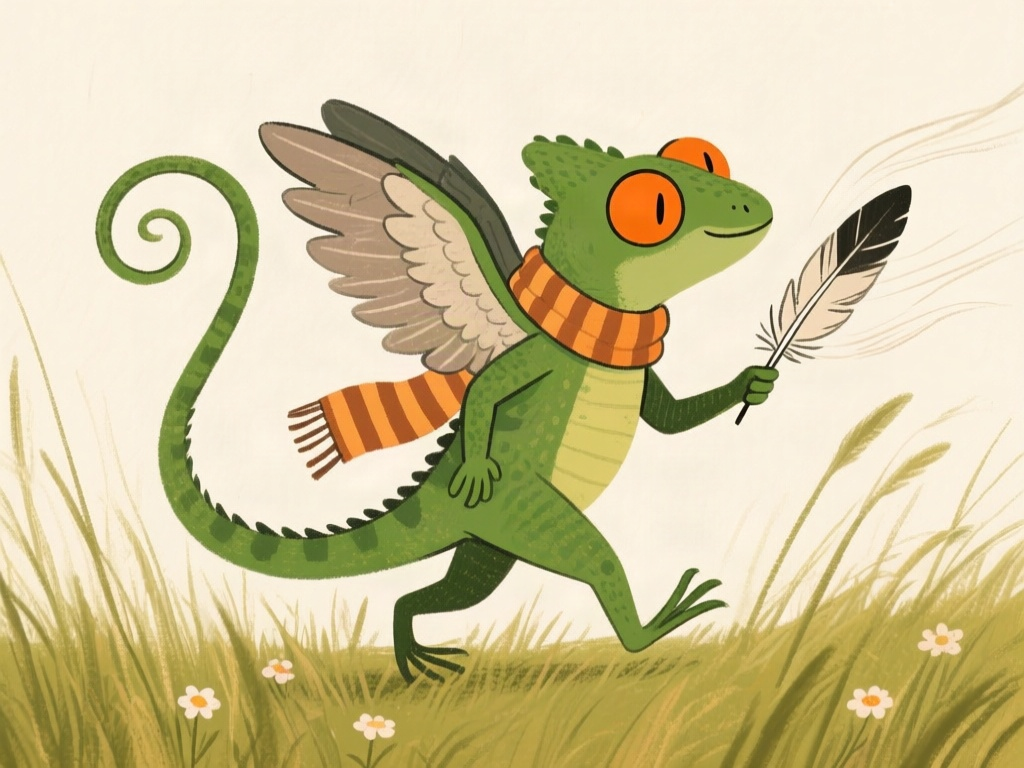
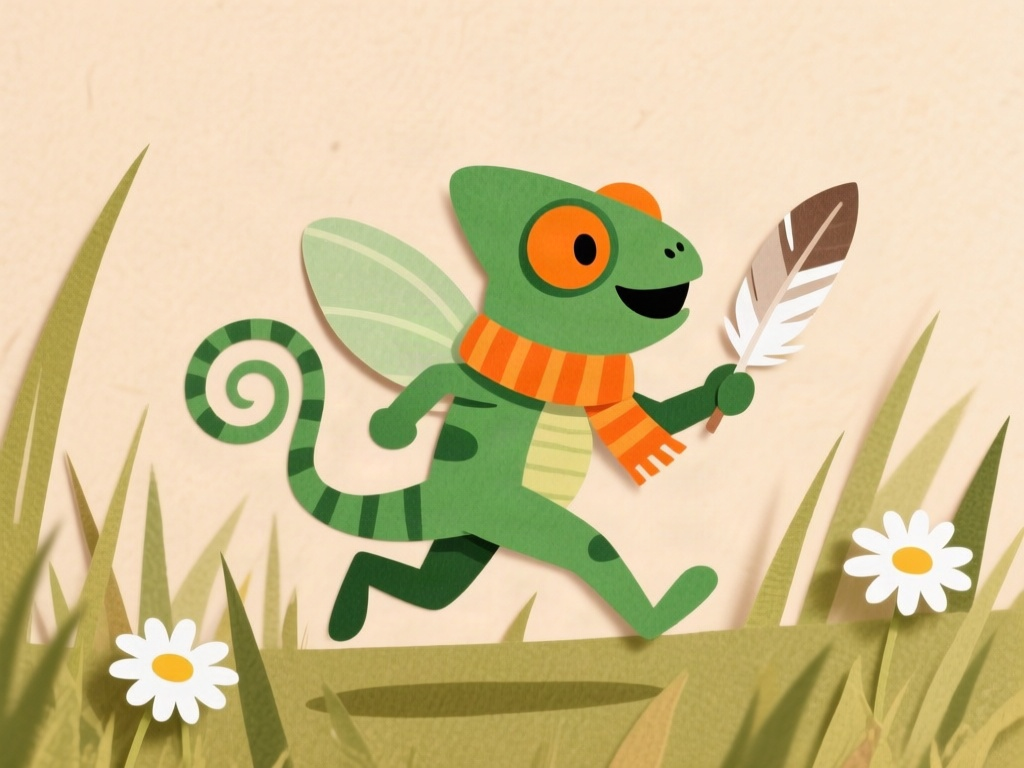
feat(styles): add a hidden pixel trial preset; redraw the cut_paper card
C3-13 / #98. The pixel fragment from the desk research is behind two
switches, both off by default: ENABLE_PIXEL_STYLE (API) and
NEXT_PUBLIC_ENABLE_PIXEL_STYLE (picker). Migration 0020 lets the jobs
table hold it. Pixel stays out of SELECTABLE_STYLE_PRESET_IDS, so corpus
strata and the product Objective 4 describes are unchanged.

pixel.png and a new cut_paper.png were each drawn once through
text_to_image (qwen-image, seed 21). The pixel sample shows drawn grid
lines in the sky, recorded in the research note as the first wording
fix before the trial.

diff --git a/frontend/app/s/[profileId]/write/page.tsx b/frontend/app/s/[profileId]/write/page.tsx
@@ -17,8 +17,19 @@ const STYLE_PRESETS = [
   { id: "cel", label: "Cartoon" },
   { id: "gouache", label: "Painted" },
   { id: "cut_paper", label: "Paper Cutout" },
+  { id: "pixel", label: "Pixel" },
 ] as const;
 type StylePresetId = (typeof STYLE_PRESETS)[number]["id"];
+
+// C3-13 / #98: `pixel` is a trial preset, hidden unless NEXT_PUBLIC_ENABLE_PIXEL_STYLE is "true".
+// The API has its own switch (ENABLE_PIXEL_STYLE, backend/app/config.py) and rejects `pixel`
+// without it, so set both. Next inlines NEXT_PUBLIC_ values at build time: changing it needs a
+// rebuild. Read inside a function so tests can stub it.
+function visibleStylePresets() {
+  return process.env.NEXT_PUBLIC_ENABLE_PIXEL_STYLE === "true"
+    ? STYLE_PRESETS
+    : STYLE_PRESETS.filter(({ id }) => id !== "pixel");
+}
 
 function countWords(text: string): number {
   const trimmed = text.trim();
@@ -59,7 +70,7 @@ export default function WriteStoryPage() {
             "style_preset_id" in parsed && typeof parsed.style_preset_id === "string"
               ? parsed.style_preset_id
               : null;
-          const stylePresetId = STYLE_PRESETS.some(({ id }) => id === storedStyle)
+          const stylePresetId = visibleStylePresets().some(({ id }) => id === storedStyle)
             ? (storedStyle as StylePresetId)
             : undefined;
           prefill = {
@@ -259,7 +270,7 @@ export default function WriteStoryPage() {
       >
         <legend className="text-xs font-display font-extrabold tracking-wider uppercase text-foreground/60 mb-2">Pick a look</legend>
         <div className="flex gap-3">
-          {STYLE_PRESETS.map(({ id, label }) => (
+          {visibleStylePresets().map(({ id, label }) => (
             <label key={id} className="flex-1 cursor-pointer">
               <input
                 type="radio"

diff --git a/frontend/app/s/[profileId]/write/page.test.tsx b/frontend/app/s/[profileId]/write/page.test.tsx
@@ -76,6 +76,17 @@ describe("WriteStoryPage", () => {
     expect(body.style_preset_id).toBe("cel");
   });
 
+  it("shows the pixel trial preset only when NEXT_PUBLIC_ENABLE_PIXEL_STYLE is true (C3-13)", () => {
+    const { unmount } = render(<WriteStoryPage />);
+    expect(screen.queryByLabelText("Pixel")).toBeNull();
+    unmount();
+
+    vi.stubEnv("NEXT_PUBLIC_ENABLE_PIXEL_STYLE", "true");
+    render(<WriteStoryPage />);
+    expect(screen.getByLabelText("Pixel")).toBeDefined();
+    vi.unstubAllEnvs();
+  });
+
   it("sends the session bearer token — POST /storybooks is auth-guarded", async () => {
     render(<WriteStoryPage />);
     fireEvent.change(screen.getByLabelText("Story title"), {
@@ -113,7 +124,7 @@ describe("WriteStoryPage", () => {
 describe("Style preset sample art", () => {
   it("every ADR-042 selectable preset has a sample image in public/style-presets/", () => {
     const dir = path.resolve(__dirname, "..", "..", "..", "..", "public", "style-presets");
-    for (const id of ["cel", "gouache", "cut_paper"]) {
+    for (const id of ["cel", "gouache", "cut_paper", "pixel"]) {
       expect(fs.existsSync(path.join(dir, `${id}.png`)), `missing file: ${id}.png`).toBe(true);
     }
   });

diff --git a/backend/app/config.py b/backend/app/config.py
@@ -76,6 +76,13 @@ class Settings(BaseSettings):
     # failure. Set true to restore the pre-ADR-045 behaviour; that is the whole revert.
     pii_pseudonymize_persons: bool = False
 
+    # C3-13 / #98: lets the API accept the `pixel` trial preset. Off by default, so the product
+    # Objective 4 evaluates (gouache, cel, cut_paper) is unchanged unless someone opts in. The
+    # frontend picker has its own switch, NEXT_PUBLIC_ENABLE_PIXEL_STYLE; set both to try it.
+    # Pixel is not in SELECTABLE_STYLE_PRESET_IDS on purpose: that set also defines the corpus
+    # strata (`freeze_dataset.py`), and the judge has never been trained or tested on pixel art.
+    enable_pixel_style: bool = False
+
     # ADR-037: consistency-checked attempts per scene — the initial draw plus two corrected
     # retries. Production is 3 and the specs are written against 3; this is a field rather than a
     # constant so `finetune/build_corpus.py` can lower it for a research build, where the
@@ -158,6 +165,11 @@ STYLE_PRESETS: dict[str, str] = {
     "comic": "bold comic-book illustration, heavy ink outlines of varied weight, flat spot colours, ben-day halftone dot shading in the backgrounds and shadows, the character itself in flat unscreened colour, limited palette, no gradients, no glow",
     "gouache": "flat gouache storybook illustration, no outlines, shapes formed by brushed colour, matte paper grain, limited warm palette, flat colour fills, no gradients, no glossy highlights",
     "cut_paper": "flat cut-paper storybook collage, clean simplified shapes with crisp cut edges, flat layered colour areas, limited warm palette, subtle paper fibre texture, no outlines, no gradients, no glossy highlights, no dimensional shadows",
+    # C3-13 trial preset, behind `enable_pixel_style`. Wording and the reasons for it:
+    # docs/capstone/pixel-art-research-2026-10.md. It avoids "sprite", "8-bit" and "16-bit": in
+    # syn-007 "sprite" alone pulled in a video-game look, and game words invite score counters,
+    # which are lettering. ⚠ UNMEASURED until the C3-13 trial runs.
+    "pixel": "pixel art storybook illustration, large square pixels on one regular grid, flat colour in every pixel, limited palette, crisp dark one-pixel outlines, simple readable shapes, no gradients, no dithering, no anti-aliasing, no glossy highlights",
 }
 SELECTABLE_STYLE_PRESET_IDS: frozenset[str] = frozenset({"cel", "gouache", "cut_paper"})
 

diff --git a/backend/tests/test_main.py b/backend/tests/test_main.py
@@ -161,6 +161,30 @@ def test_create_storybook_null_style_preset_stores_gouache():
     assert insert_args["style_preset_id"] == "gouache"
 
 
+@pytest.mark.parametrize("enabled, status", [(False, 422), (True, 200)])
+def test_pixel_style_preset_is_accepted_only_when_switched_on(enabled, status):
+    """C3-13 trial preset (#98): hidden unless ENABLE_PIXEL_STYLE is set, so the default product
+    is the one Objective 4 describes."""
+    fake_supabase = MagicMock()
+    fake_queue = MagicMock()
+
+    with patch("app.main.get_supabase_client", return_value=fake_supabase), \
+         patch("app.main.get_queue", return_value=fake_queue), \
+         patch("app.main.check_text", return_value=(True, [], "My Story")), \
+         patch("app.main.settings.enable_pixel_style", enabled):
+        response = client.post(
+            "/storybooks",
+            json={"text": "A dog runs in a field.", "title": "My Story", "style_preset_id": "pixel"},
+        )
+
+    assert response.status_code == status
+    if enabled:
+        insert_args = fake_supabase.table.return_value.insert.call_args[0][0]
+        assert insert_args["style_preset_id"] == "pixel"
+    else:
+        fake_supabase.table.return_value.insert.assert_not_called()
+
+
 def test_create_storybook_accepts_cut_paper_style_preset():
     """ADR-042 §10: cut_paper is the third selectable preset after promotion."""
     fake_supabase = MagicMock()

diff --git a/backend/tests/test_config.py b/backend/tests/test_config.py
@@ -15,8 +15,8 @@ from pipeline.prompt_optimizer import style_prohibitions
 from providers import NEGATIVE_PROMPT
 
 
-def test_style_presets_has_exactly_four_keys():
-    assert set(STYLE_PRESETS.keys()) == {"cel", "comic", "gouache", "cut_paper"}
+def test_style_presets_has_exactly_five_keys():
+    assert set(STYLE_PRESETS.keys()) == {"cel", "comic", "gouache", "cut_paper", "pixel"}
 
 
 def test_selectable_style_preset_ids_excludes_worker_compatibility_only_comic():

diff --git a/backend/app/main.py b/backend/app/main.py
@@ -101,6 +101,8 @@ class CreateStorybookRequest(BaseModel):
     @field_validator("style_preset_id")
     @classmethod
     def validate_style_preset(cls, v: str | None) -> str | None:
+        if v == "pixel" and settings.enable_pixel_style:
+            return v
         if v is not None and v not in SELECTABLE_STYLE_PRESET_IDS:
             raise ValueError(f"Unknown style_preset_id: {v!r}")
         return v

diff --git a/docs/capstone/pixel-art-research-2026-10.md b/docs/capstone/pixel-art-research-2026-10.md
@@ -188,6 +188,12 @@ Using the synthetic-corpus mix from the [image-model screen](image-model-researc
 | Clean-up arm | offline | offline | $0 | $0 |
 | Later LoRA arm (if run) | qwen-image + LoRA $0.020 (surcharge unknown) | edit-2511/lora $0.0275–$0.035 | $0.46–$0.54 | $2.76–$3.26 |
 
+### Hidden preset, added 2026-10-06
+
+The fragment above is now `STYLE_PRESETS["pixel"]` (`backend/app/config.py`), off by default. To try it, set `ENABLE_PIXEL_STYLE=true` on the API and `NEXT_PUBLIC_ENABLE_PIXEL_STYLE=true` on the frontend build, and apply `supabase/migrations/0020_add_pixel_style_preset.sql`. It is not in `SELECTABLE_STYLE_PRESET_IDS`, so corpus strata and freezes are unchanged.
+
+The picker sample `frontend/public/style-presets/pixel.png` was drawn once through `text_to_image` (`fal-ai/qwen-image`, seed 21) with this fragment. It shows clear pixel art on the character, but the model read "on one regular grid" as a drawn grid: graph-paper lines cover the sky, and the grass stays soft rather than pixelated. That wording is the first thing to revise before the trial. A second call with the same subject and seed redrew `cut_paper.png` with the unchanged `cut_paper` fragment, at the owner's request.
+
 Prompt-only trial: **about $5.00–$5.90** for 12 books. Worst case at `IMAGE_BUDGET` 55 calls × $0.030 = $1.65 per book is $19.80. A cap of about $8 covers the expected case plus retries; size it after reading the fal dashboard on the first book. Judge calls on OpenRouter are not included.
 
 ## Sources
